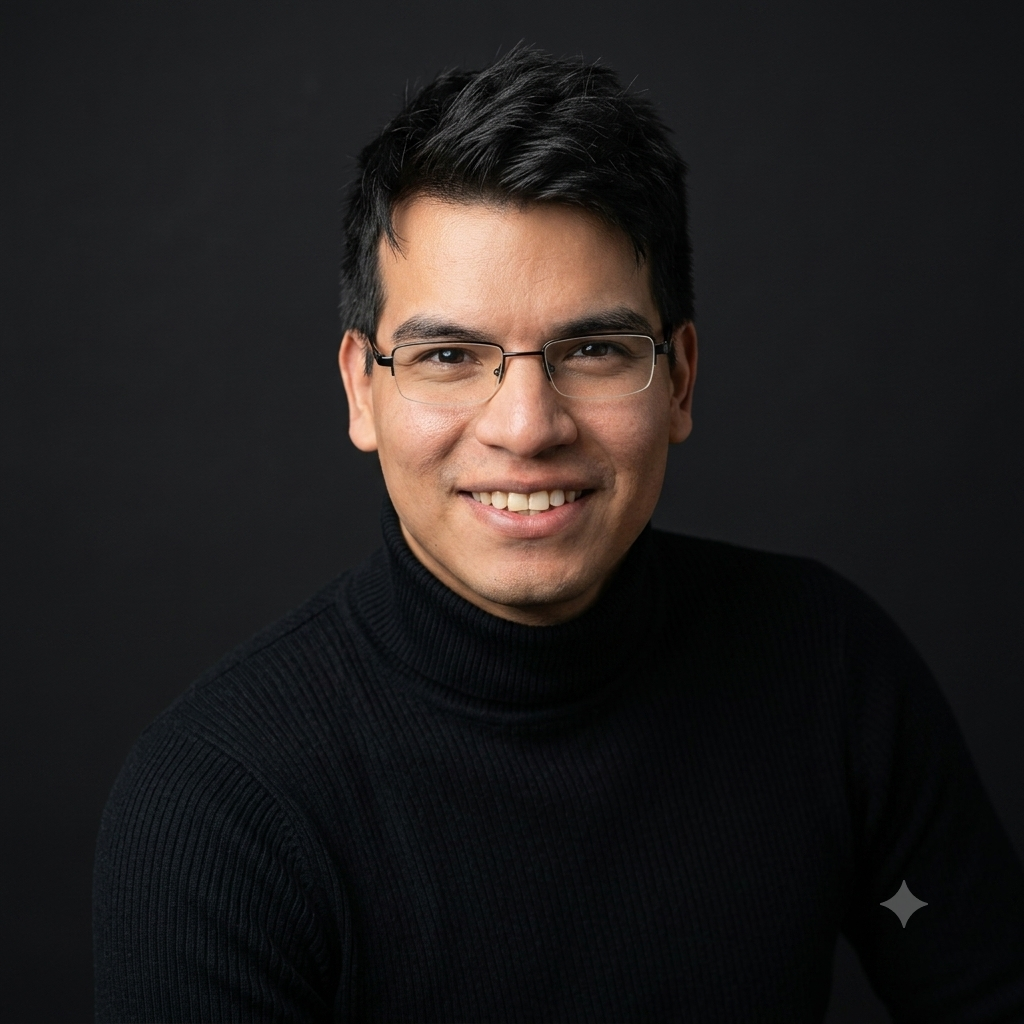
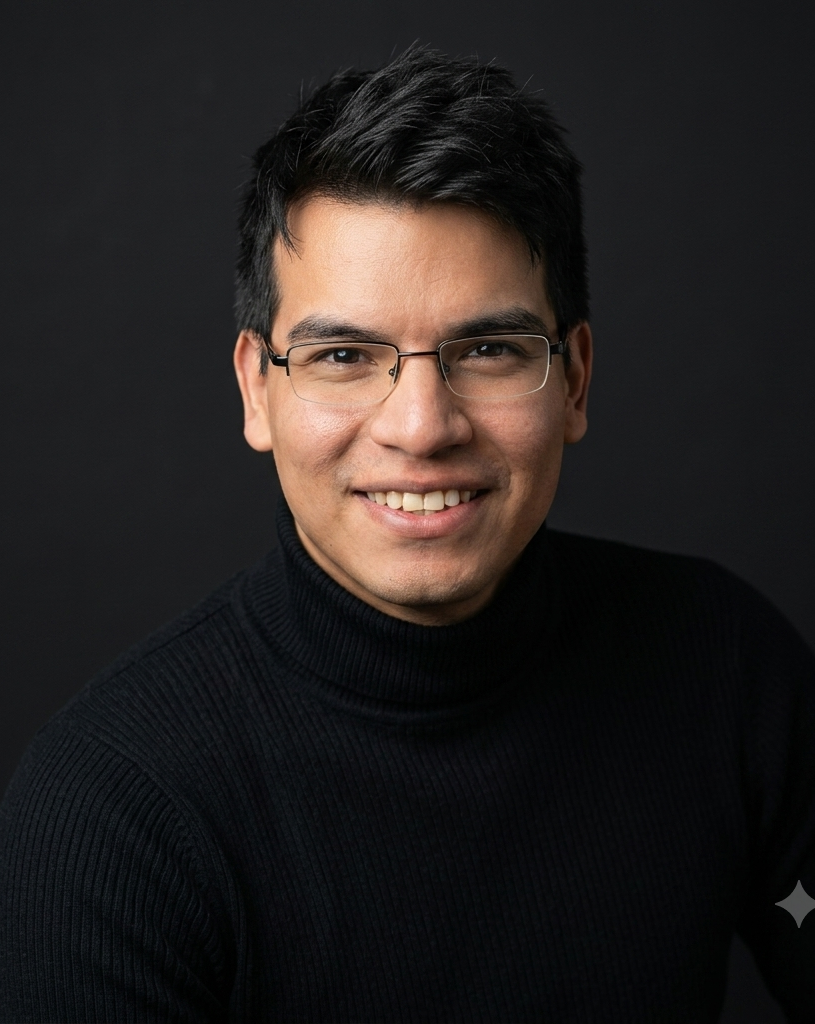
cambiando las fotos

diff --git a/app/components/EquipoExperiencia.tsx b/app/components/EquipoExperiencia.tsx
@@ -68,7 +68,7 @@ export default function EquipoExperiencia() {
                   src={persona.foto}
                   alt={persona.nombre}
                   fill
-                  className="object-cover object-top scale-120"
+                  className="object-cover object-top scale-130"
                 />
               </div>
 